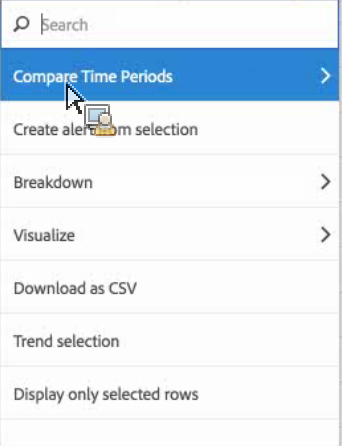
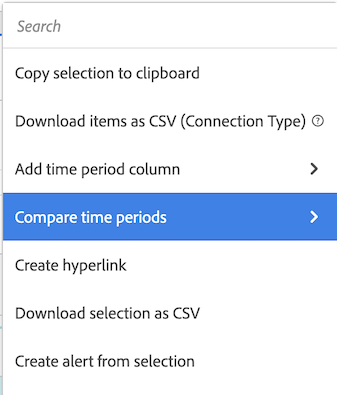
updates

diff --git a/help/analyze/analysis-workspace/components/calendar-date-ranges/time-comparison.md b/help/analyze/analysis-workspace/components/calendar-date-ranges/time-comparison.md
@@ -18,10 +18,10 @@ Here is a video on the topic:
 >[!NOTE]
 >[!UICONTROL Compare Time Periods] leverages advanced Calculated Metrics. As a result, it is available only to customers with Analytics Select, Prime, and Ultimate SKUs. 
 
-Analysis requires context, and often that context is provided by a previous time period. For example, the question "How much better/worse are we doing than at this time last year?" is fundamental to understanding your business. Date Comparison automatically include a "difference" column, which shows the percentage change compared to a specified time period.
+Analysis requires context, and often that context is provided by a previous time period. For example, the question "How much better or worse are we doing than at this time last year?" is fundamental to understanding your business. Date Comparison automatically include a "difference" column, which shows the percentage change compared to a specified time period.
 
 1. Create a Freeform table, with any dimensions and metrics you want to compare over a time period.
-1. Right-click a table row and select **[!UICONTROL Compare Time Periods]**.
+1. Right-click a table row and select **[!UICONTROL Compare time periods]**.
 
    ![](assets/compare-time.png)
 
@@ -34,12 +34,12 @@ Analysis requires context, and often that context is provided by a previous time
    |  Option  | Description  |
    |---|---|
    | **[!UICONTROL Prior week/month/quarter/year to this date range]** | Compares to the week/month/etc. immediately before this date range.  |
-   | **[!UICONTROL This week/month/quarter/year last year]** | Compares to the same date range a year ago.  |
-   | **[!UICONTROL Select range]** | Lets you select a custom date range.  |
+   | **[!UICONTROL This week/month/quarter/year last year to this date range]** | Compares to the same date range a year ago.  |
+   | **[!UICONTROL Custom date range to this date range]** | Lets you select a custom date range.  |
 
    >[!NOTE]
    >
-   >When you select a custom number of days, for example October 7 - October 20 (a 14-day range), you will get only 2 options: **[!UICONTROL Prior 14 days before this date range]**, and **[!UICONTROL Select range]**.
+   >When you select a custom number of days, for example October 7 - October 20 (a 14-day range), you will get only 2 options: **[!UICONTROL Prior 14 days before this date range]**, and **[!UICONTROL Custom date range to this date range]**.
 
 1. The resulting comparison looks like this:
 
@@ -57,19 +57,21 @@ Analysis requires context, and often that context is provided by a previous time
 
 You can now add a time period to each column in a table, enabling you to add a time period that is different from the one your calendar is set to. This is another way you can compare dates.
 
-1. Right-click a column in the table and select **[!UICONTROL Add Time Period Column]** ![](assets/add-time-period-column.png)
+1. Right-click a column in the table and select **[!UICONTROL Add time period column]**. 
+
+   ![](assets/add-time-period-column.png)
 
 1. Depending on how you have set the table's date range, you have these options for comparison: 
 
    |  Option  | Description  |
    |---|---|
    | **[!UICONTROL Prior week/month/quarter/year to this date range]** | Adds a column with the week/month/etc. immediately before this date range.  |
-   | **[!UICONTROL This week/month/quarter/year last year]** | Adds the same date range a year ago.  |
-   | **[!UICONTROL Select range]** | Lets you select a custom date range.  |
+   | **[!UICONTROL This week/month/quarter/year last year to this date range]** | Adds the same date range a year ago.  |
+   | **[!UICONTROL Custom date range to this date range]** | Lets you select a custom date range.  |
 
    >[!NOTE]
    >
-   >When you select a custom number of days, for example October 7 - October 20 (a 14-day range), you will get only 2 options: **[!UICONTROL Prior 14 days before this date range]**, and **[!UICONTROL Select range]**.
+   >When you select a custom number of days, for example October 7 - October 20 (a 14-day range), you will get only 2 options: **[!UICONTROL Prior 14 days before this date range]**, and **[!UICONTROL Custom date range to this date range]**.
 
 1. The time period will be inserted on top of the column you selected:
 
@@ -81,22 +83,29 @@ You can now add a time period to each column in a table, enabling you to add a t
 
 1. In addition, you can sort on each column, which will change the order of days depending on the column you are sorting on.
 
-## Align column dates to start on same row {#section_5085E200082048CB899C3F355062A733}
+## Align column dates to start on the same row {#section_5085E200082048CB899C3F355062A733}
 
-A new setting for all tables lets you **[!UICONTROL Align Dates from each column to all start on the same row (applies to entire table)]**. "Applies to entire table" means that if you do, for example, a breakdown in the table, and if you change this setting for the breakdown, it will change the setting for the entire table.
+You can align the dates from each column to all start on the same row. 
 
-![](assets/date-comparison-setting.png)
-
->[!NOTE]
->
->This setting is **disabled** (unchecked) for all existing projects and **enabled** (checked) for all new projects.
-
-Example: When you choose to align the dates, if you do a month-over-month comparison between October and September 2016, the left column will start with October 1 and the right column will start with September 1:
+For example, when you choose to align the dates, if you do a month-over-month comparison between October and September 2016, the left column will start with October 1 and the right column will start with September 1:
 
 ![](assets/add-time-period-column3.png)
 
-<!-- 
+>[!NOTE]
+>
+>Consider the following when using this option:
+>
+>* This setting is enabled by default for all new projects.
+>
+>* This setting applies to the entire table. For example, if you change this setting for a breakdown within the table, it will change the setting for the entire table.
+>
 
-<p>See Jonny Moon's email from November 3. </p>
+To enable this setting, if it is not already enabled:
 
- -->
+1. In the table where you want to align column dates, select the **Settings** icon in the table header.
+
+1. On the [!UICONTROL **Settings**] tab, select **[!UICONTROL Align Dates from each column to all start on the same row (applies to entire table)]**.
+
+![](assets/date-comparison-setting.png)
+
+

diff --git a/help/analyze/analysis-workspace/visualizations/c-flow/create-flow.md b/help/analyze/analysis-workspace/visualizations/c-flow/create-flow.md
@@ -37,7 +37,7 @@ Flow visualizations let you configure the start or end of the path you are inter
    >
    >Calculated metrics cannot be used in the  **[!UICONTROL Starts with]** or **[!UICONTROL Ends with]** fields.
 
-1. If you choose a metric, you also need to provide a [!UICONTROL **Pathing Dimension**] to use to use as your path leading to or going from your selected component, as shown here. The default is [!UICONTROL **Page**].
+1. If you choose a metric, you also need to provide a [!UICONTROL **Pathing Dimension**] to use as your path leading to or coming from your selected component, as shown here. The default is [!UICONTROL **Page**].
 
    ![pathing dimension](assets/pathing-dim.png)
 
@@ -68,7 +68,7 @@ Flow visualizations let you configure the start or end of the path you are inter
 > 
 >1. Begin creating a flow visualization as described above.
 >1. Drag the [!UICONTROL **Page**] dimension into the **[!UICONTROL Contains]** field, then select [!UICONTROL **Build**].
->1. The Flow visualization builds with the most-viewed page visible in the focus node in the center of the visualization. You also see the top pages leading into that page (to the left of the focus node) as well as the top pages leading out of that focus page (to the right of the focus node).
+>1. The Flow visualization builds with the most-viewed page visible in the focus node in the center of the visualization. You also see the top pages leading into that page (to the left of the focus node) as well as the top pages leading out of that page (to the right of the focus node).
 >1. Analyze data in the flow, as described in [View and change the Flow output](#view-and-change-the-flow-output).
 
 

diff --git a/help/analyze/analysis-workspace/visualizations/key-metric.md b/help/analyze/analysis-workspace/visualizations/key-metric.md
@@ -46,6 +46,8 @@ This visualization addresses a variety of common use cases, including:
 
 ## View the output
 
+The optout visualization should look something like this:
+
 ![](assets/key-metric-output.png)
 
 Please note:
